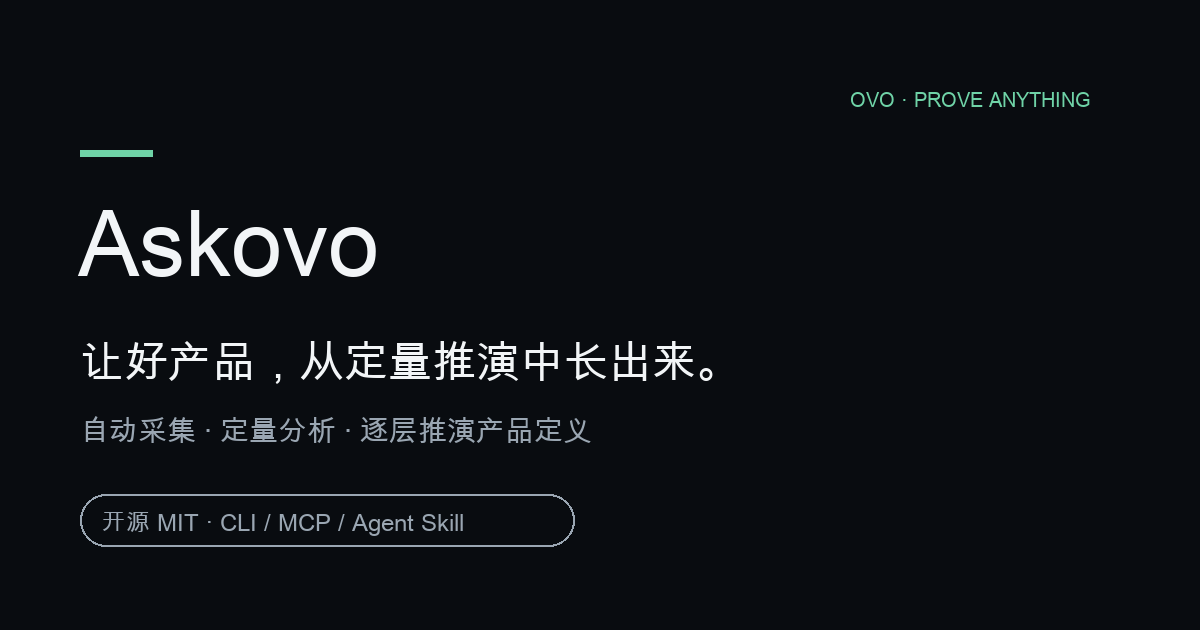
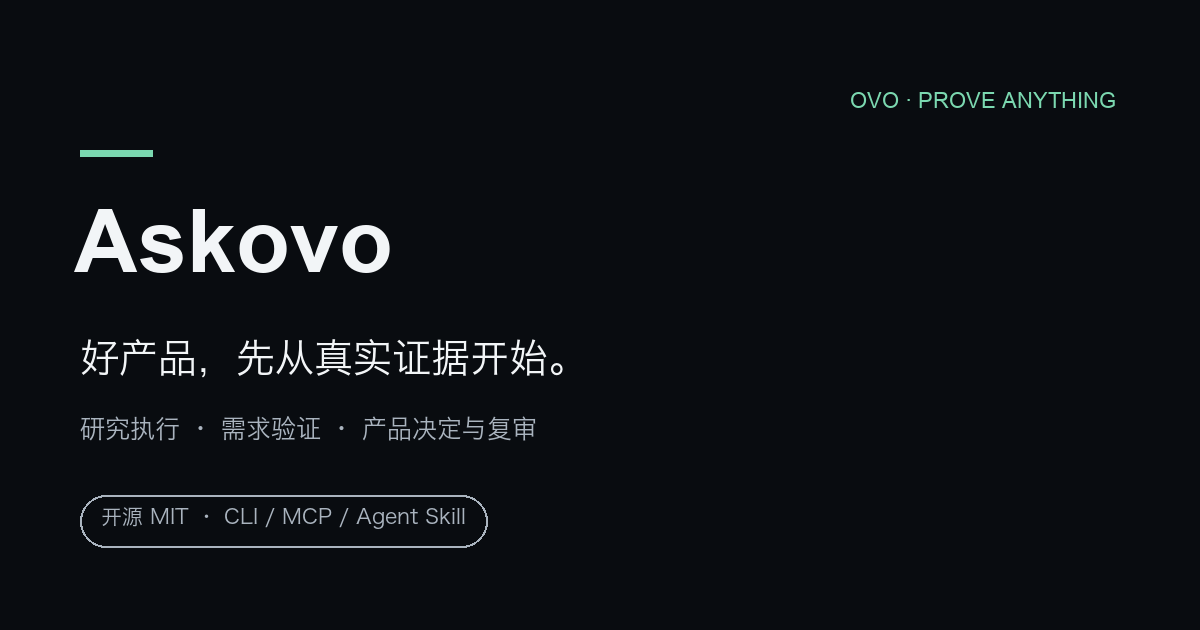
docs: align GTM with real-evidence research

diff --git a/website/en/index.html b/website/en/index.html
@@ -3,8 +3,8 @@
 <head>
   <meta charset="UTF-8">
   <meta name="viewport" content="width=device-width, initial-scale=1.0">
-  <title>Askovo | Great products grow from quantitative reasoning</title>
-  <meta name="description" content="Askovo turns user voices, market material and counterexamples into product choices teams can compare, act on and revisit as new evidence arrives.">
+  <title>Askovo | Build product decisions on real evidence</title>
+  <meta name="description" content="Askovo helps product teams collect user and market evidence, test demand assumptions, and decide what to build next. Open-source CLI, MCP and Agent Skill.">
   <link rel="canonical" href="https://roy-tong.github.io/Askovo/en/index.html">
   <link rel="alternate" hreflang="zh-CN" href="https://roy-tong.github.io/Askovo/">
   <link rel="alternate" hreflang="en" href="https://roy-tong.github.io/Askovo/en/index.html">
@@ -12,16 +12,16 @@
   <meta name="theme-color" content="#090C10">
   <meta property="og:type" content="website">
   <meta property="og:site_name" content="Askovo">
-  <meta property="og:title" content="Askovo | Great products grow from quantitative reasoning">
-  <meta property="og:description" content="Turn user voices, market material and counterexamples into product choices your team can compare and act on.">
+  <meta property="og:title" content="Askovo | Build product decisions on real evidence">
+  <meta property="og:description" content="Collect real user and market evidence, test demand assumptions, and decide what to build next.">
   <meta property="og:url" content="https://roy-tong.github.io/Askovo/en/index.html">
   <meta property="og:image" content="https://roy-tong.github.io/Askovo/assets/social-preview.png">
   <meta property="og:image:width" content="1200">
   <meta property="og:image:height" content="630">
-  <meta property="og:image:alt" content="Askovo: product decisions with evidence">
+  <meta property="og:image:alt" content="Askovo: product decisions on real evidence">
   <meta name="twitter:card" content="summary_large_image">
-  <meta name="twitter:title" content="Askovo | Great products grow from quantitative reasoning">
-  <meta name="twitter:description" content="Turn user voices, market material and counterexamples into product choices your team can compare and act on.">
+  <meta name="twitter:title" content="Askovo | Build product decisions on real evidence">
+  <meta name="twitter:description" content="Collect real user and market evidence, test demand assumptions, and decide what to build next.">
   <meta name="twitter:image" content="https://roy-tong.github.io/Askovo/assets/social-preview.png">
   <link rel="icon" type="image/svg+xml" href="../assets/favicon.svg">
   <link rel="stylesheet" href="../styles.css">
@@ -32,7 +32,7 @@
     "name": "Askovo",
     "applicationCategory": "BusinessApplication",
     "operatingSystem": "macOS, Linux, Windows",
-    "description": "Askovo turns user voices, market material and counterexamples into product choices teams can compare and act on.",
+    "description": "Askovo helps product teams collect user and market evidence, test demand assumptions, and decide what to build next.",
     "url": "https://roy-tong.github.io/Askovo/en/index.html",
     "codeRepository": "https://github.com/roy-tong/Askovo",
     "license": "https://opensource.org/license/mit",
@@ -58,39 +58,39 @@
 
   <main class="wrap">
     <div class="hero" id="top">
-      <p class="kicker">OVO · PROVE ANYTHING / PRODUCT DECISIONS, WITH EVIDENCE</p>
-      <h1>Great products grow from quantitative reasoning</h1>
-      <p class="lead">Askovo performs thorough quantitative research for product definition and decisions. It automatically collects and analyzes data, then builds reasonable product judgments step by step. Make data-driven product judgment an everyday team capability, so great products no longer depend on instinct alone.</p>
+      <p class="kicker">OVO · PROVE ANYTHING / REAL EVIDENCE FOR PRODUCT DECISIONS</p>
+      <h1>Build product decisions on real evidence.</h1>
+      <p class="lead">Askovo helps product teams collect user and market evidence, test demand assumptions, and decide what to build next. A general agent can help frame and analyze a study; Askovo adds research execution, source traceability, counterexamples and validation records.</p>
       <div class="cta-row">
-        <a class="btn btn-primary" href="#try">Run the product-reasoning sample</a>
-        <a class="btn" href="./examples/decision-replay.html">See how one counterexample changes a decision</a>
+        <a class="btn btn-primary" href="#try">Run the sample study</a>
+        <a class="btn" href="./guides/need-validation.html">Learn demand validation</a>
         <a class="btn" href="./first-look.html">Bring a product decision</a>
       </div>
     </div>
 
     <section id="value">
-      <h2>From scattered inputs to a product definition you can defend<span class="en">FROM DEBATE TO DEFINITION</span></h2>
-      <p class="sub">Seniority, volume and report length should not make the choice. Askovo connects automatic collection, quantitative analysis and step-by-step reasoning directly to product definition.</p>
+      <h2>A general agent can reason. Askovo brings real evidence into the study.<span class="en">RESEARCH BEYOND THE PROMPT</span></h2>
+      <p class="sub">A polished research answer is only as useful as the material behind it. Askovo helps a team go beyond the information already in the prompt.</p>
       <table>
         <tbody>
-          <tr><td><strong>See the real problem</strong></td><td>Start with scenes, users and pains to find what is worth solving instead of following the first feature request.</td></tr>
-          <tr><td><strong>Compare real options</strong></td><td>Put supporting evidence, counterexamples and trade-offs together so each direction’s value and cost become clear.</td></tr>
-          <tr><td><strong>Keep the decision learning</strong></td><td>Revisit the same choice when new evidence arrives and carry every lesson into the next product decision.</td></tr>
+          <tr><td><strong>Collect real material</strong></td><td>Gather community feedback, interview material, competitor records and authorized exports with source, time and failure history.</td></tr>
+          <tr><td><strong>Test demand assumptions</strong></td><td>Keep concept feedback, prototype responses, willingness-to-pay statements and observed behavior distinct; simulated users do not become demand evidence.</td></tr>
+          <tr><td><strong>Move and revisit the decision</strong></td><td>Keep support, counterexamples and unknowns attached to each claim, then revisit the same decision as evidence changes.</td></tr>
         </tbody>
       </table>
     </section>
 
     <section id="how">
-      <h2>From data to product definition, one reasoned step at a time<span class="en">FROM DATA TO DEFINITION</span></h2>
+      <h2>From research execution to demand validation, with every step tied to source material<span class="en">FROM EVIDENCE TO VALIDATION</span></h2>
       <table>
         <tbody>
-          <tr><td><strong>1 · Collect automatically</strong></td><td>Gather user, community and market data around the product question so research starts with real material.</td></tr>
-          <tr><td><strong>2 · Analyze quantitatively</strong></td><td>Study distributions, frequencies, differences and counterexamples to see which patterns deserve attention.</td></tr>
-          <tr><td><strong>3 · Build the definition</strong></td><td>Reason step by step through scene, user, pain, need, feature, product and business.</td></tr>
-          <tr><td><strong>4 · Decide and revisit</strong></td><td>Turn the judgment into a Decision Brief and action plan, then refine it as new data arrives.</td></tr>
+          <tr><td><strong>1 · Frame the decision</strong></td><td>Start with a costly product choice, its scope and the assumptions that could falsify it.</td></tr>
+          <tr><td><strong>2 · Collect and import</strong></td><td>Use community feedback, interview material, competitor records, authorized exports and concept or prototype feedback.</td></tr>
+          <tr><td><strong>3 · Analyze with provenance</strong></td><td>Quantitative and semantic analysis stay linked to exact quotes, counterexamples and coverage gaps.</td></tr>
+          <tr><td><strong>4 · Validate and decide</strong></td><td>Keep stated interest, willingness to pay and observed behavior distinct; the decision owner chooses and revisits the next move.</td></tr>
         </tbody>
       </table>
-      <p>Askovo’s goal is not to generate a polished answer for you. It is to make data-driven product definition a capability every team can practice.</p>
+      <p>The shared research chain remains <strong>scene → user → pain → need → feature → product → business</strong>. Its value depends on real material and sound validation, not on generating a more confident report.</p>
     </section>
 
     <section id="deliverables">

diff --git a/website/index.html b/website/index.html
@@ -3,8 +3,8 @@
 <head>
   <meta charset="UTF-8">
   <meta name="viewport" content="width=device-width, initial-scale=1.0">
-  <title>Askovo | 让好产品，从定量推演中长出来</title>
-  <meta name="description" content="Askovo 把用户声音、市场材料和反例变成可比较的产品选择，帮助团队看清机会、推进决定，并在新证据到来时持续复审。">
+  <title>Askovo | 好产品，先从真实证据开始</title>
+  <meta name="description" content="Askovo 帮产品团队采集用户与市场证据、检验需求假设，再决定做什么、不做什么。支持 CLI、MCP 与 Agent Skill。">
   <link rel="canonical" href="https://roy-tong.github.io/Askovo/">
   <link rel="alternate" hreflang="zh-CN" href="https://roy-tong.github.io/Askovo/">
   <link rel="alternate" hreflang="en" href="https://roy-tong.github.io/Askovo/en/index.html">
@@ -12,16 +12,16 @@
   <meta name="theme-color" content="#090C10">
   <meta property="og:type" content="website">
   <meta property="og:site_name" content="Askovo">
-  <meta property="og:title" content="Askovo | 让好产品，从定量推演中长出来">
-  <meta property="og:description" content="把用户声音、市场材料和反例变成可比较的产品选择。">
+  <meta property="og:title" content="Askovo | 好产品，先从真实证据开始">
+  <meta property="og:description" content="汇集真实用户与市场证据，检验需求假设，再决定做什么、不做什么。">
   <meta property="og:url" content="https://roy-tong.github.io/Askovo/">
   <meta property="og:image" content="https://roy-tong.github.io/Askovo/assets/social-preview.png">
   <meta property="og:image:width" content="1200">
   <meta property="og:image:height" content="630">
-  <meta property="og:image:alt" content="Askovo：让产品决定有据可依">
+  <meta property="og:image:alt" content="Askovo：好产品，先从真实证据开始">
   <meta name="twitter:card" content="summary_large_image">
-  <meta name="twitter:title" content="Askovo | 让好产品，从定量推演中长出来">
-  <meta name="twitter:description" content="把用户声音、市场材料和反例变成可比较的产品选择。">
+  <meta name="twitter:title" content="Askovo | 好产品，先从真实证据开始">
+  <meta name="twitter:description" content="汇集真实用户与市场证据，检验需求假设，再决定做什么、不做什么。">
   <meta name="twitter:image" content="https://roy-tong.github.io/Askovo/assets/social-preview.png">
   <link rel="icon" type="image/svg+xml" href="./assets/favicon.svg">
   <link rel="stylesheet" href="./styles.css">
@@ -32,7 +32,7 @@
     "name": "Askovo",
     "applicationCategory": "BusinessApplication",
     "operatingSystem": "macOS, Linux, Windows",
-    "description": "Askovo 把用户声音、市场材料和反例变成可比较的产品选择，帮助团队看清机会、推进决定。",
+    "description": "Askovo 帮产品团队采集用户与市场证据、检验需求假设，再决定做什么、不做什么。",
     "url": "https://roy-tong.github.io/Askovo/",
     "codeRepository": "https://github.com/roy-tong/Askovo",
     "license": "https://opensource.org/license/mit",
@@ -58,39 +58,39 @@
 
   <main class="wrap">
     <div class="hero" id="top">
-      <p class="kicker">OVO · PROVE ANYTHING / PRODUCT DECISIONS, WITH EVIDENCE</p>
-      <h1>让好产品，从定量推演中长出来</h1>
-      <p class="lead">Askovo 为产品定义与决策做充分的定量研究，自动采集数据、完成分析，并逐步推演出合理的产品定义判断。让数据驱动的产品判断成为每个团队的日常，好产品不再只依赖灵感与经验。</p>
+      <p class="kicker">OVO · PROVE ANYTHING / REAL EVIDENCE FOR PRODUCT DECISIONS</p>
+      <h1>好产品，先从真实证据开始</h1>
+      <p class="lead">Askovo 帮产品团队采集用户与市场证据、检验需求假设，再决定做什么、不做什么。通用 Agent 可以协助设计与分析；Askovo 补上真实研究执行、来源追踪、反证和验证记录。</p>
       <div class="cta-row">
-        <a class="btn btn-primary" href="#try">运行产品推理样例</a>
-        <a class="btn" href="./examples/decision-replay.html">看一条反证如何改变决定</a>
+        <a class="btn btn-primary" href="#try">运行示例研究</a>
+        <a class="btn" href="./guides/need-validation.html">学习需求验证方法</a>
         <a class="btn" href="./first-look.html">带来一个产品决定</a>
       </div>
     </div>
 
     <section id="value">
-      <h2>从一堆材料和争论，到一个有依据的产品定义<span class="en">FROM DEBATE TO DEFINITION</span></h2>
-      <p class="sub">职位、音量和报告厚度，都不该替团队做选择。Askovo 用自动采集、定量分析和逐层推演，把研究直接连接到产品定义。</p>
+      <h2>通用 Agent 会推理，Askovo 把真实证据带进研究<span class="en">RESEARCH BEYOND THE PROMPT</span></h2>
+      <p class="sub">一份漂亮的研究答案，价值取决于背后的材料。Askovo 帮团队走出已有上下文，继续获得和检验新证据。</p>
       <table>
         <tbody>
-          <tr><td><strong>看见真正的问题</strong></td><td>从场景、用户和痛点出发，找到值得解决的事，而不是被第一条功能请求牵着走。</td></tr>
-          <tr><td><strong>比较不同的选择</strong></td><td>把支持证据、反例和取舍放在一起，知道每个方向为什么值得做，又要放弃什么。</td></tr>
-          <tr><td><strong>让决定继续生长</strong></td><td>新证据到来时复审同一个决定，看清建议如何变化，让每次学习都进入下一次选择。</td></tr>
+          <tr><td><strong>采集真实材料</strong></td><td>汇集社区反馈、访谈材料、竞品记录和授权导出，保留来源、时间与失败状态。</td></tr>
+          <tr><td><strong>检验需求假设</strong></td><td>区分概念反馈、原型反馈、付费意愿表达和真实行为；模拟用户不能成为需求证据。</td></tr>
+          <tr><td><strong>推进并复审决定</strong></td><td>让支持、反例和未知项跟着主张走，新证据到来时继续复审同一个决定。</td></tr>
         </tbody>
       </table>
     </section>
 
     <section id="how">
-      <h2>从数据到产品定义，每一步都有依据<span class="en">FROM DATA TO DEFINITION</span></h2>
+      <h2>从研究执行到需求验证，每一步都回到原始材料<span class="en">FROM EVIDENCE TO VALIDATION</span></h2>
       <table>
         <tbody>
-          <tr><td><strong>1 · 自动采集</strong></td><td>围绕产品问题获取用户、社区与市场数据，让研究从真实材料开始。</td></tr>
-          <tr><td><strong>2 · 定量分析</strong></td><td>分析分布、频率、差异与反例，看清哪些现象值得继续追。</td></tr>
-          <tr><td><strong>3 · 逐层推演</strong></td><td>沿场景、用户、痛点、需求、特性、产品和商业逐步形成产品定义判断。</td></tr>
-          <tr><td><strong>4 · 决策与复审</strong></td><td>把判断变成 Decision Brief 与行动方案，新数据到来时继续修正。</td></tr>
+          <tr><td><strong>1 · 定义决定</strong></td><td>从有投入代价的产品选择开始，明确对象、范围和待证伪假设。</td></tr>
+          <tr><td><strong>2 · 采集与导入</strong></td><td>使用社区反馈、访谈材料、竞品记录、授权导出，以及概念或原型反馈。</td></tr>
+          <tr><td><strong>3 · 带着来源分析</strong></td><td>定量与语义分析都要回到原文、反例和覆盖缺口。</td></tr>
+          <tr><td><strong>4 · 验证并决定</strong></td><td>区分口头兴趣、付费意愿和真实行为，由负责人选择下一步并随证据复审。</td></tr>
         </tbody>
       </table>
-      <p>底层是一条清晰的七节点主链：<strong>场景 → 用户 → 痛点 → 需求 → 特性 → 产品 → 商业</strong。它负责把材料连成判断，而你负责做真正的产品取舍。</p>
+      <p>底层仍是一条清晰的研究链：<strong>场景 → 用户 → 痛点 → 需求 → 特性 → 产品 → 商业</strong>。它负责把材料连成判断，真正的价值来自材料是否真实、验证是否成立。</p>
     </section>
 
     <section id="deliverables">

diff --git a/website/guides/need-validation.html b/website/guides/need-validation.html
@@ -99,6 +99,21 @@
     </section>
 
     <section>
+      <h2>概念、原型和价格验证分别证明什么<span class="en">CONCEPT, PROTOTYPE AND PRICE TESTS</span></h2>
+      <p>研究执行不能只停在公开评论。把真实测试材料带入同一个假设，才能知道证据走到了哪一步：</p>
+      <table>
+        <thead><tr><th>验证方式</th><th>要保留的原始记录</th><th>能支持的判断</th></tr></thead>
+        <tbody>
+          <tr><td>概念测试</td><td>目标对象、概念版本、具体选择、反对理由和上下文</td><td>在给定条件下对方案的明确接受或拒绝（E3），不是实际购买</td></tr>
+          <tr><td>原型反馈</td><td>任务、操作过程、完成/失败、修改版本和观察者记录</td><td>方案是否被理解、能否完成任务；口头“喜欢”仍与行为分开</td></tr>
+          <tr><td>价格验证</td><td>价格与条款、对象、真实付款/预订/放弃及其时间</td><td>价格锚点、实际购买或拒绝；问卷里的“愿意付费”不能替代</td></tr>
+          <tr><td>真实行为验证</td><td>激活、持续使用、复购、退货或切换记录</td><td>实际采用与留存（E5），不能自动推出因果或市场规模</td></tr>
+        </tbody>
+      </table>
+      <p><strong>模拟用户可以帮助检查研究设计，但不能升级为以上任何真实证据。</strong>Askovo 当前组织这些测试材料和验证记录，不宣称自动招募受访者或自动完成所有实验。</p>
+    </section>
+
+    <section>
       <h2>今天就能做的三步<span class="en">DO IT WITHOUT ANY TOOL</span></h2>
       <ol>
         <li>选一个目标社区（GitHub issue、Reddit 版块、垂直论坛），用问题语言搜 30 分钟，记下出现 ≥3 次的场景。</li>
@@ -119,7 +134,7 @@
 
   <footer class="footer wrap">
     <p>方法依据：仓库 <a href="https://github.com/roy-tong/Askovo/blob/main/docs/concepts.md">docs/concepts.md</a> 的 E0–E5 定义与门禁规则。</p>
-    <p class="row"><span>© 2026 Askovo</span><span>·</span><a href="../">首页</a><span>·</span><a href="../glossary.html">术语表</a><span>·</span><a href="../faq.html">常见问题</a><span>·</span><span>复核日期 2026-11-15</span></p>
+    <p class="row"><span>© 2026 Askovo</span><span>·</span><a href="../">首页</a><span>·</span><a href="../glossary.html">术语表</a><span>·</span><a href="../faq.html">常见问题</a><span>·</span><span>复核日期 2026-11-24</span></p>
     <p class="row"><span>ovo 家族：研究 <strong>Askovo</strong> → 执行 <a href="https://roy-tong.github.io/Growovo/">Growovo</a> → 核验 <a href="https://roy-tong.github.io/Verovo/">Verovo</a></span></p>
   </footer>
 </body>

diff --git a/website/en/guides/need-validation.html b/website/en/guides/need-validation.html
@@ -101,6 +101,21 @@
     </section>
 
     <section>
+      <h2>What do concept, prototype and price tests each prove?<span class="en">CONCEPT, PROTOTYPE AND PRICE TESTS</span></h2>
+      <p>Research execution should not stop at public comments. Bring real test material into the same assumption so the team can see how far the evidence actually goes:</p>
+      <table>
+        <thead><tr><th>Validation</th><th>Raw records to preserve</th><th>Judgment it can support</th></tr></thead>
+        <tbody>
+          <tr><td>Concept test</td><td>Target participant, concept version, concrete choice, objections and context</td><td>Explicit acceptance or rejection under stated conditions (E3), not an actual purchase</td></tr>
+          <tr><td>Prototype feedback</td><td>Task, interaction, completion/failure, prototype version and observer notes</td><td>Whether the concept is understood and the task can be completed; stated liking remains separate</td></tr>
+          <tr><td>Price validation</td><td>Price and terms, participant, actual payment/pre-order/abandonment and time</td><td>Price anchors, purchase or rejection; survey willingness alone cannot substitute</td></tr>
+          <tr><td>Observed behavior</td><td>Activation, retained use, repeat purchase, return or switching records</td><td>Observed adoption and retention (E5), without automatic causal or market-size claims</td></tr>
+        </tbody>
+      </table>
+      <p><strong>Simulated users can help inspect a study design, but they cannot be upgraded into any of these real evidence forms.</strong> Askovo currently organizes test material and validation records; it does not claim to recruit participants or run every experiment automatically.</p>
+    </section>
+
+    <section>
       <h2>Three steps you can take today<span class="en">DO IT WITHOUT ANY TOOL</span></h2>
       <ol>
         <li>Pick one target community (GitHub issues, a Reddit sub, a vertical forum), search it for 30 minutes in the language of the problem, and note the scenes that come up at least 3 times.</li>

diff --git a/scripts/seo_check.py b/scripts/seo_check.py
@@ -40,7 +40,7 @@ SITEMAP_EXEMPT = {"404.html"}
 ALLOW_NOINDEX: set[str] = set()
 # Deployment acceptance: key pages must contain these strings once live.
 REQUIRED_MARKERS: dict[str, tuple[str, ...]] = {
-    "index.html": ("让好产品，从定量推演中长出来",),
+    "index.html": ("好产品，先从真实证据开始",),
     "guides/need-validation.html": ("E2", "说了不算，做了才算"),
     "faq.html": ("用户说想要，就算需求吗？",),
 }

diff --git a/README.md b/README.md
@@ -6,9 +6,9 @@
 
 # Askovo
 
-**Great products grow from quantitative reasoning**
+**Build product decisions on real evidence.**
 
-Askovo performs thorough quantitative research for product definition and decisions. It automatically collects and analyzes user and market data, then builds reasonable product judgments step by step—from scene and user to pain and need. Teams gain a reasoned answer to why, for whom and what to build, making data-driven product judgment part of everyday work.
+Askovo helps product teams collect user and market evidence, test demand assumptions, and decide what to build next. It adds research execution, source traceability, counterexamples and validation records to the agent workflow you already use.
 
 [Website](https://roy-tong.github.io/Askovo/) · [Decision replay](https://roy-tong.github.io/Askovo/en/examples/decision-replay.html) · [Quickstart](docs/quickstart.md) · [Method](docs/product-reasoning.md)
 
@@ -16,15 +16,20 @@ Askovo performs thorough quantitative research for product definition and decisi
 [![PyPI](https://img.shields.io/pypi/v/askovo)](https://pypi.org/project/askovo/)
 [![License](https://img.shields.io/badge/License-MIT-blue)](LICENSE)
 
-## From scattered inputs to a product definition you can defend
+## A general agent can reason. Askovo brings real evidence into the study.
 
-A product discussion can easily become a contest of seniority, volume or report length. Askovo connects automatic collection, quantitative analysis and step-by-step reasoning directly to product definition:
+A polished research answer is only as useful as the material behind it. Askovo helps a team go beyond the information already in the prompt:
 
-- **See the opportunity.** Connect scenes, users, pains and needs instead of starting from a feature request.
-- **Compare real options.** Put supporting evidence, counterexamples and trade-offs beside each candidate.
-- **Move the decision forward.** Turn the discussion into a Decision Brief, a business plan and a concrete validation backlog.
-- **Keep learning.** Revisit the same decision when new material arrives and see how the recommendation changes.
-- **Keep the model on a leash.** Optional `analyze --semantic` candidates must cite exact source quotes and stated unknowns, pass an adversarial review, and wait for a named human before entering the evidence path. MCP cannot accept or reject on the human's behalf.
+- **Collect real material.** Gather community feedback, interview material, competitor records and authorized exports with source and acquisition history.
+- **Test demand assumptions.** Keep concept feedback, prototype responses, willingness-to-pay statements and observed behavior distinct; simulated users do not become demand evidence.
+- **Compare support and counterevidence.** Put exact source quotes, alternative explanations and coverage gaps beside each candidate direction.
+- **Move and revisit the decision.** Turn the material into a Decision Brief and next validation, then revisit the same decision when new evidence arrives.
+
+| General-purpose agent | Askovo |
+|---|---|
+| Helps frame a study, analyze supplied material and draft a recommendation | Adds collection, evidence provenance, demand-validation records and decision state |
+| Can produce a plausible answer from the current context | Keeps support, counterexamples and unknowns attached to the claims they affect |
+| Can rewrite a report for different readers | Projects the same research chain into a Decision Brief, business plan, MRD, PRD and BRD |
 
 ## What you can make
 
@@ -62,12 +67,12 @@ askovo do "Should we rebuild onboarding for small teams?" --domain software --dr
 
 The offline synthetic sample shows how Askovo structures a study, links evidence and turns a question into a reviewable product judgment. [See how one counterexample changes a decision](https://roy-tong.github.io/Askovo/en/examples/decision-replay.html).
 
-## A workflow built for real product work
+## A workflow built for real research execution
 
 1. **Frame the decision.** Start with the choice that has a real cost, not a generic request for research.
-2. **Bring the material you have.** Use documents, interviews, authorized exports and community discussions.
-3. **Find the weakest link.** Askovo helps identify which assumption deserves new evidence first.
-4. **Choose and revisit.** The decision owner selects the next move; new evidence can reopen the same decision.
+2. **Collect and import.** Use community feedback, interview material, competitor records, authorized exports and concept or prototype feedback.
+3. **Analyze with provenance.** Quantitative and semantic analysis stay linked to exact source material and counterexamples.
+4. **Validate and decide.** Keep stated interest, willingness to pay and observed behavior distinct; the decision owner selects the next move and revisits it as evidence changes.
 
 Use the CLI directly, attach Askovo to your agent as a Skill, or call the same behavior through MCP. Collection, analysis, interviews and evidence grading support the product judgment rather than replacing it.
 
